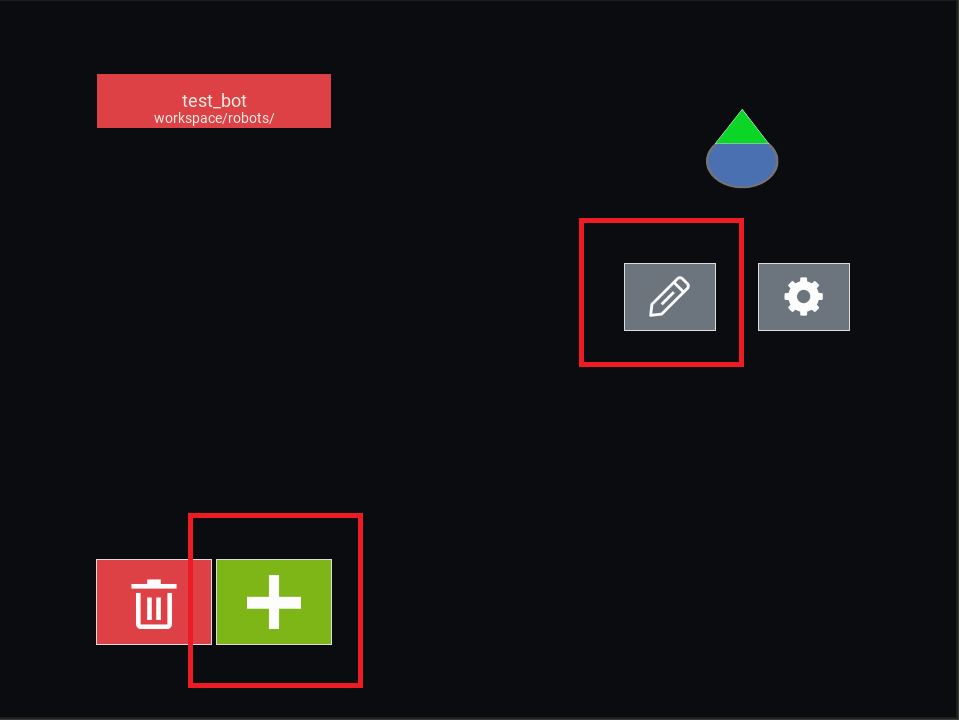
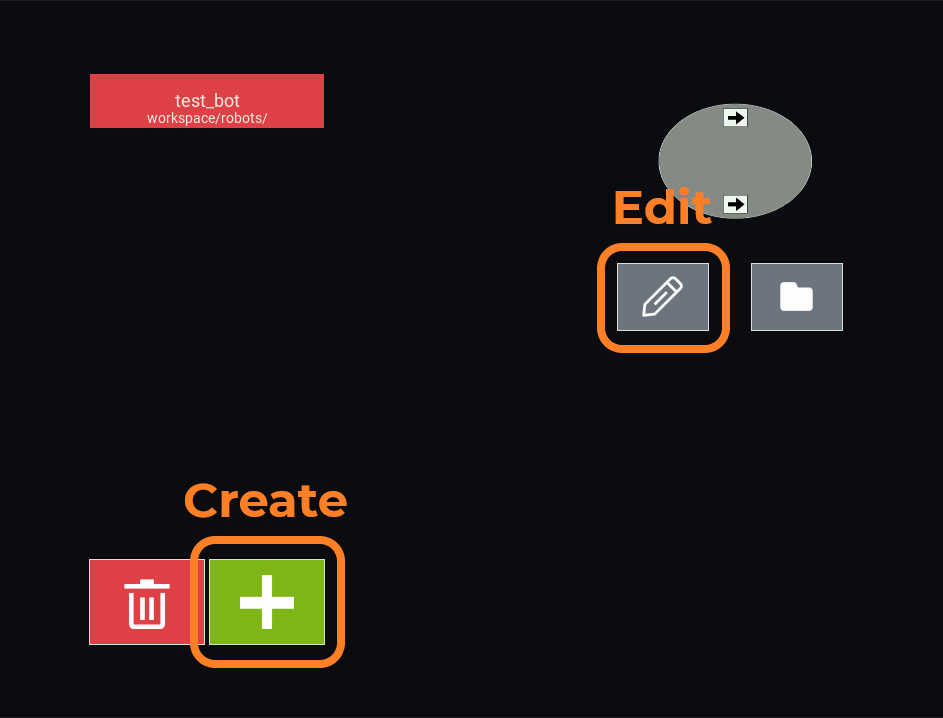
Update documentation to current version.

diff --git a/docs/ev3_extensions.rst b/docs/ev3_extensions.rst
@@ -5,12 +5,12 @@ While your robots still run python-ev3dev2 code in the simulation, you also have
 
 Almost all of the below functionality is available in the package ``ev3sim.code_helpers``. In order for this code to work on your physical robot, there also needs to be a package on the physical bot filesystem called ``ev3sim.code_helpers``, containing `this file`_.
 
-For a demo of most of these features, see ``demo.bot`` in the simulator. The code it runs is available `here`_.
+For a demo of most of these features, see the ``demo`` bot in the simulator. The code it runs is available `here`_.
 
 Waiting for simulation ticks
 ----------------------------
 
-As most ev3 programs tend to have a single loop which handles all of the robot's logic, in the interest of efficiency on simulator we highly recommend you attempt to sync this program loop up with each tick of the simulator.
+As most ev3 programs tend to have a single loop which handles all of the robot's logic, in the interest of efficiency on simulator it is essentially required that you attempt to sync this program loop up with each tick of the simulator.
 This is because running multiple program loops per simulation tick is useless (as sensor values won't change) and it can degrade the reliability of sensor values in future, if this program is spending a lot of CPU time running these pointless loops.
 
 You can achieve such a sync with the ``wait_for_tick`` method from the code helpers:
@@ -21,9 +21,10 @@ You can achieve such a sync with the ``wait_for_tick`` method from the code help
 
     while True:
         # Program logic...
+        # Wait for the next simulation tick before I continue...
         wait_for_tick()
 
-Importing this means you need to transfer ``ev3sim/code_helpers.py`` onto the brick for this to run (Just create a folder named ``ev3sim`` and place `code_helpers.py`_ in there).
+Importing this means you need to transfer ``ev3sim/code_helpers.py`` onto the brick for this to run on a physical bot (Just create a folder named ``ev3sim`` and place `code_helpers.py`_ in there).
 
 Robot ID
 --------
@@ -38,7 +39,7 @@ Since you might be running multiple instances of the same code on different robo
 
 This will also work on the brick, it should print "Robot-0".
 
-Importing this means you need to transfer ``ev3sim/code_helpers.py`` onto the brick for this to run (Just create a folder named ``ev3sim`` and place `code_helpers.py`_ in there).
+Importing this means you need to transfer ``ev3sim/code_helpers.py`` onto the brick for this to run on a physical bot (Just create a folder named ``ev3sim`` and place `code_helpers.py`_ in there).
 
 Printing to console
 -------------------
@@ -81,7 +82,7 @@ Example:
     # This message will stay on the console for 3 seconds
     format_print("Hello world!")
     # This message will stay on the console for 5 seconds
-    format_print("Hello world!", life=3)
+    format_print("Hello world!", life=5)
     # This message will stay on the console for 1 second.
     format_print("Hello world!", life=1)
 
@@ -107,7 +108,7 @@ This message will stay open in the console, and its message contents will change
 Logs
 ----
 
-All prints made to the console will also be stored in log files. These log files are available in your workspace if the workspace is defined. Otherwise they will be stored in your EV3Sim install location.
+All prints made to the console will also be stored in log files (As well as error messages). These log files are available in your workspace if the workspace is defined. Otherwise they will be stored in your EV3Sim install location.
 
 Simulation testing
 ------------------
@@ -126,7 +127,7 @@ As an example, the simulator currently does not implement the ``Led`` functional
     if is_sim:
         print("Hello from the sim! Sadly I can't do lights at the moment :(")
 
-Importing this means you need to transfer ``ev3sim/code_helpers.py`` onto the brick for this to run (Just create a folder named ``ev3sim`` and place `code_helpers.py`_ in there).
+Importing this means you need to transfer ``ev3sim/code_helpers.py`` onto the brick for this to run on a physical bot (Just create a folder named ``ev3sim`` and place `code_helpers.py`_ in there).
 
 Handling simulation events
 --------------------------
@@ -149,12 +150,12 @@ To handle such events you can use the code helpers EventSystem:
     EventSystem.on_goal_scored = handle_scored
 
     while True:
-        EventSystem.handle_events()
         wait_for_tick()
+        EventSystem.handle_events()
 
 ``EventSystem.handle_events`` must be called often (ie in every loop iteration, simply add this line after every occurrence of ``wait_for_tick``) to allow such events to fire the related code. Any event in the system returns a data object, which will contain any useful information about the event.
 
-Importing this means you need to transfer ``ev3sim/code_helpers.py`` onto the brick for this to run (Just create a folder named ``ev3sim`` and place `code_helpers.py`_ in there).
+Importing this means you need to transfer ``ev3sim/code_helpers.py`` onto the brick for this to run on a physical bot (Just create a folder named ``ev3sim`` and place `code_helpers.py`_ in there).
 
 The full list of events is:
 
@@ -169,7 +170,7 @@ Fires whenever a goal is scored by either team.
 Fires whenever the game is reset manually.
 
 ``on_penalty_start``
-^^^^^^^^^^^^^^^^^^
+^^^^^^^^^^^^^^^^^^^^
 Fires whenever you are placed in the penalty box.
 
 ``on_penalty_end``
@@ -188,7 +189,7 @@ Here is the list of supported commands:
 ``CommandSystem.TYPE_DRAW``
 ^^^^^^^^^^^^^^^^^^^^^^^^^^^
 
-Draws an object to the screen using the same syntax as the simulator. The data passed in must be a dictionary with the following keys:
+Draws an object to the screen using the same syntax as the simulator source code. The data passed in must be a dictionary with the following keys:
 
 - ``obj``: The visual representation of the object.
 - ``key``: The key the visual object will be referenced by (This means you can update the object position by sending the same key).
@@ -198,7 +199,7 @@ Draws an object to the screen using the same syntax as the simulator. The data p
 ``CommandSystem.TYPE_CUSTOM``
 ^^^^^^^^^^^^^^^^^^^^^^^^^^^^^
 
-A custom event that can be caught by any custom presets you want to define.
+A custom event that can be caught by any custom simulations you want to define.
 
 Example:
 
@@ -247,14 +248,14 @@ As bluetooth communications are a popular option for complicated strategies with
 
 The communications are written in a client/server architecture, as with normal use of bluetooth comms.
 
-This should also work on the physical robots over bluetooth, provided that the MAC Address and port are correct (Follow the instructions for normal bluetooth connectivity). As with above importing this means you need to transfer ``ev3sim/code_helpers.py`` onto the brick for this to run (Just create a folder named ``ev3sim`` and place `code_helpers.py`_ in there).
+This should also work on the physical robots over bluetooth, provided that the MAC Address and port are correct (Follow the instructions for normal bluetooth connectivity). As with above importing this means you need to transfer ``ev3sim/code_helpers.py`` onto the brick for this to run on a physical bot (Just create a folder named ``ev3sim`` and place `code_helpers.py`_ in there).
 
 For an example of robots communicating device data to each other (in this case through a server, but client/server messaging could also simply work between two robots) try this example (place all 4 commands in separate terminals), you can run the simulation preset ``ev3sim/examples/sims/communications_demo.yaml``
 
 Sources: `communication_client.py`_, `communication_server.py`_
 
-.. _here: https://github.com/MelbourneHighSchoolRobotics/ev3sim/tree/main/ev3sim/examples/robots/demo.py
+.. _here: https://github.com/MelbourneHighSchoolRobotics/ev3sim/tree/main/ev3sim/examples/robots/demo/code.py
 .. _this file: https://github.com/MelbourneHighSchoolRobotics/ev3sim/tree/main/ev3sim/code_helpers.py
 .. _code_helpers.py: https://github.com/MelbourneHighSchoolRobotics/ev3sim/tree/main/ev3sim/code_helpers.py
-.. _communication_client.py: https://github.com/MelbourneHighSchoolRobotics/ev3sim/tree/main/ev3sim/robots/communication_client.py
-.. _communication_server.py: https://github.com/MelbourneHighSchoolRobotics/ev3sim/tree/main/ev3sim/robots/communication_server.py
+.. _communication_client.py: https://github.com/MelbourneHighSchoolRobotics/ev3sim/tree/main/ev3sim/examples/robots/communication_client/code.py
+.. _communication_server.py: https://github.com/MelbourneHighSchoolRobotics/ev3sim/tree/main/ev3sim/examples/robots/communication_server/code.py

diff --git a/docs/setup.rst b/docs/setup.rst
@@ -9,22 +9,16 @@ Windows Executable
 
 By far the easiest way to install and use EV3Sim if you have a windows computer is using the one-click installer available on the `releases page on github`_.
 
-.. image:: images/releases.jpg
+.. image:: images/releases.png
   :width: 600
   :alt: An image of the releases page on github.
 
 Simply download the asset file named ``one_click.exe``, and follow the prompts to get the executable installed.
 
-Windows Bundle
-^^^^^^^^^^^^^^
-
-Another way to get EV3Sim is by downloading the package from the same releases page (``windows_package``). Simply unzip and place this folder in a program directory such as ``Program Files`` or ``Applications``.
-In future we aim to also support this method for Mac/Linux, but currently there's not much point to. Let us now if you'd prefer this!
-
 Pip install
 ^^^^^^^^^^^
 
-If installing via this method, EV3sim requires Python 3.7+ to be installed on your system. If you don't already have Python installed, you can download it from https://www.python.org/ .
+If installing via this method, EV3sim requires Python 3.7+ to be installed on your system. If you don't already have Python installed, you can download it from https://www.python.org/ (Make sure to tick "Add Python to PATH"!).
 
 You can install this package using pip as follows:
 
@@ -40,7 +34,7 @@ Updating
 Windows Executable
 ^^^^^^^^^^^^^^^^^^
 
-If a new one-click installer comes out, you can simply run this and it will update your existing installation of EV3Sim. Your workspace and any settings will remain the same, unless some breaking changes are required.
+If a new one-click installer comes out, you can simply download and run this new version and it will update your existing installation of EV3Sim. Your workspace and any settings will remain the same, unless some breaking changes are required.
 
 Pip install
 ^^^^^^^^^^^
@@ -57,11 +51,10 @@ Starting EV3Sim
 Depending on you installation method, you might start EV3Sim differently:
 
 * If you installed on windows with the one click install, EV3Sim should be in your start menu.
-* If using the bundle installation, you can go into the folder and run ``ev3sim`` or ``ev3sim.exe``.
 * If installed via pip, then run ``ev3sim`` in the command line.
 
 The first time you run EV3Sim, you will be prompted with a dialog, asking you to specify a *workspace folder*.
-A workspace folder is where all of your local bots, code and simulation presets are stored.
+A workspace folder is where all of your local bots and code are stored.
 
 We'd recommend creating a new folder on your Desktop to be your workspace folder, for easy access.
 
@@ -70,9 +63,11 @@ Running EV3Sim
 
 Once your workspace folder has been set, you can start using the application.
 
-* The ``Simulate`` tab allows you to run simulations, and select simulations to edit the bots or settings.
-* The ``Bots`` tab allows you to edit and create bots to use in the simulation.
+* The ``Soccer`` tab allows you to run soccer simulations, and the two buttons to the right let you change the settings for this simulation, and what bots will be simulated.
+* The ``Rescue`` tab allows you to run rescue simulations, and the two buttons to the right let you change the settings for this simulation, and what bots will be simulated.
+* The ``Bots`` tab allows you to edit and create bots to use in the simulations.
 * The ``Settings`` tab allows you to change a few configurations when running EV3Sim.
+* (If shown) The ``Custom`` tab allows you to simulate custom environments, if they are installed.
 
 
 Further Information on installing
@@ -82,8 +77,8 @@ Windows
 ^^^^^^^
 
 
-Command not recognised
-""""""""""""""""""""""
+Command not recognised - Python / Pip installation
+""""""""""""""""""""""""""""""""""""""""""""""""""
 
 .. code-block:: batch
 

diff --git a/docs/bot_editing.rst b/docs/bot_editing.rst
@@ -13,8 +13,6 @@ If you want to change the design of an existing bot, you can select that bot and
   :width: 600
   :alt: The bot select screen highlighting the new and edit buttons.
 
-If you have the windows one click install, you can also find your bot in ``workspace/robots`` and right click, select ``Open`` to edit the bot.
-
 If you are creating a new bot, you'll be prompted to pick a baseplate for the bot.
 The baseplate is the object that all other components of your robot will rest on. This can be a circle, a regular polygon, or a rectangle.
 
@@ -36,7 +34,7 @@ There are 4 types of elements:
 * Devices (Motors, Sensors, Buttons)
 
 Click the respective icon on the left sidebar to select that element. 
-If you instead click the cursor icon, you will be return to select mode, where you can select elements already on the bot, and change/remove them.
+If you instead click the cursor icon, you will be returned to select mode, where you can select elements already on the bot, and change/remove them.
 
 .. image:: images/bot_edit_holding_elements.png
   :width: 600
@@ -51,7 +49,7 @@ Modifying elements
 ^^^^^^^^^^^^^^^^^^
 
 To modify an element on the robot, we first need to enter the selecting mode, by clicking the cursor icon on the left sidebar.
-Then, click on the element to select it. After this, the bottom bar should populate with properties to edit:
+Then, click and drag to move an element, or click on the element to select it. After this, the bottom bar should populate with properties to edit:
 
 * Rotation
 * Fill and Stroke colour
@@ -63,9 +61,7 @@ And many others. You can edit these properties and see them change in real time 
 Any numerical property can be edited simply by typing out the value you want, after clicking in the box. 
 You can also scroll while hovering over the value to increase/decrease it with ease.
 
-The fill and stroke properties can be change by clicking the colour swatch next to it. This should open a colour picker.
-
-The device port entry can be whatever you want it to be, but this property tends to be ``in1,in2,in3...`` for sensors, and ``outA,outB,outC...`` for motors.
+The fill and stroke properties can be changed by clicking the colour swatch next to it. This should open a colour picker.
 
 .. image:: images/bot_edit_properties.png
   :width: 600
@@ -81,17 +77,12 @@ Additionally, the backspace key should also remove the element.
 Adding code to a bot
 --------------------
 
-Designing a good bot also includes designing code to run! You can specify the code location for a specific bot by selecting it in the bot menu and pressing the settings cog.
+Designing a good bot also includes designing code to run!
 
-If you have the windows one click install, you can also find your bot in ``workspace/robots`` and right click, select ``Edit`` to go to the same window.
+You can design this code by selecting the Folder icon when the bot is selected. This should open up a window with a folder containing three items:
 
-.. image:: images/bot_menu_settings.png
-  :width: 600
-  :alt: The bot menu screen, showing the bot properties cog.
+* ``code.py`` - The python file your program will run.
+* ``config.bot`` - Your robot information stored in a file.
+* ``preview.png`` - A preview of your bot.
 
-Then press the button next to 'Bot script' to open the file selector. 
-All code you want to run on your bot should be located in the ``code`` folder of your workspace!
-
-.. image:: images/bot_edit_code.png
-  :width: 600
-  :alt: The bot property editing screen, showing the code location button.
+To design code for your robot, simply edit the contents of ``code.py``.

diff --git a/docs/randomisation.rst b/docs/randomisation.rst
@@ -1,50 +1,19 @@
 Randomisation
 =============
 
-TODO: Change this to gui docs
+While disabled by default, you can enable some randomisation for device data (to simulate real life issues) By changing the settings of ev3sim:
 
-When executing ``ev3sim`` you may notice that the following is printed:
+.. image:: images/randomisation_settings.png
+  :width: 600
+  :alt: The settings screen, highlighting randomisation settings.
 
-.. code-block:: bash
+You can also configure these values to your liking / realism by pressing the button on the right:
 
-    Simulating with seed 0000000000
+.. image:: images/randomisation_settings2.png
+  :width: 600
+  :alt: The settings screen, highlighting randomisation settings.
 
-But with a different number to the one above. This number is the 'seed' and essentially defines all randomness that will occur within the system.
-
-Despite being mostly the same on every run, some elements of the simulation require randomness, for realism, and to ensure that every run is slightly different:
-
-* The spawn positions of bots and balls is slightly randomised.
-* The way a colour sensor detects colours requires randomness.
-
-As such in order to redo a simulation exactly as was done before, we want to be able to use the same seed, to ensure all random numbers are also the same.
-
-You can do this with the ``--seed`` or ``-s`` flag in ``ev3sim``. As an example, to simulate with seed 123456789, you can do the following:
-
-.. code-block:: bash
-
-    ev3sim bot.yaml --seed 123456789
-
-Note that the ``Simulating with seed`` line will respect this change. The seed can be any integer from 0 to 2^32 - 1, inclusive.
-
-To make simulation of devices a bit more realistic, there is also support for the randomisation of device characteristics, in similar ways to what you might expect in real life. Examples include:
-
-* Motors having a theoretical maximum speed, but also a physical one which differs slightly
-* Sensors having slight biases towards certain directions
-
-And you can enable this randomisation by using the ``soccer_random.yaml`` preset rather than ``soccer.yaml``:
-
-.. code-block:: bash
-
-    ev3sim bot.yaml --seed 123456789 -p soccer_random.yaml
-
-To add randomisation to your particular preset, you only need to add the following:
-
-.. code-block:: yaml
-
-    settings:
-      ev3sim.simulation.loader.ScriptLoader.RANDOMISE_SENSORS: true  
-
-That being said, some of this randomisation is not done based on the seed, but rather the port and robot the device is connected to (This is to simulate you working with the same device with the same bias between runs). As a rule of thumb:
+In general, the following rules occur to device randomness:
 
 * Internal biases of devices will be static on the same port / robot filename.
-* Randomness which is introduced over time or every game tick is tied to the seed.
+* Randomness which is introduced over time or every game tick is tied to the seed, and so different every time.

diff --git a/docs/simulation_settings.rst b/docs/simulation_settings.rst
@@ -1,0 +1,34 @@
+Simulation Settings
+===================
+
+Why do we need settings?
+----------------------------
+
+When running a simulation with EV3Sim, you need two things:
+
+* A world to simulate and interact with, and
+* Robots to interact with the simulated world.
+
+We can specify both of these things using the two buttons to the right of the ``Soccer`` and ``Rescue`` tabs.
+
+Changing the robots in a simulation
+-----------------------------------
+
+Pressing the icon of a robot on the main menu allows you to select the robots present in a simulation.
+
+From here, you can select a bot from those you have defined, and select them for Team 1 or Team 2 for Soccer, or just the individual bot for rescue. For soccer, after selecting the bot for Team 1, Bot 1, you then select the bot for Team 2, Bot 1, and so on.
+At any point if you have enough bots in the simulation, you can click "Done" to finish.
+
+Changing simulation settings
+----------------------------
+
+Clicking the settings cog instead of the robot button will take you to the settings page for you simulation preset:
+
+.. image:: images/settings.png
+  :width: 600
+  :alt: The simulation preset settings page, for the soccer preset.
+
+Running the simulation preset
+-----------------------------
+
+To run your simulation with these changes, just click the ``Soccer`` or ``Rescue`` buttons.

diff --git a/docs/custom_presets.rst b/docs/custom_presets.rst
@@ -3,4 +3,6 @@ Custom Preset Types
 
 You can actually define your own preset types such as soccer and rescue, and run them through EV3Sim!
 
-I haven't documented this because I'm not sure anyone will read this far. If you do want some information on this however, let me know with an issue on github and I can give you some help as well as populate this page!
+I haven't documented this because I'm not sure anyone will read this far. If you do want some information on this however, let me know with an `issue on github`_ and I can give you some help as well as populate this page!
+
+.. _issue on github: https://github.com/MelbourneHighSchoolRobotics/ev3sim/issues

diff --git a/docs/index.rst b/docs/index.rst
@@ -27,11 +27,10 @@ A full video on what EV3Sim is and how you can install it can be found here:
    :caption: Contents:
 
    setup
-   batched_commands
+   simulation_settings
    bot_editing
    ev3_extensions
    custom_presets
+   randomisation
    contributing
    system
-
-.. TODO: Support randomisation through settings.

diff --git a/docs/system.rst b/docs/system.rst
@@ -1,5 +1,5 @@
 Simulation Objects
-===============================
+==================
 
 .. toctree::
    :maxdepth: 1
